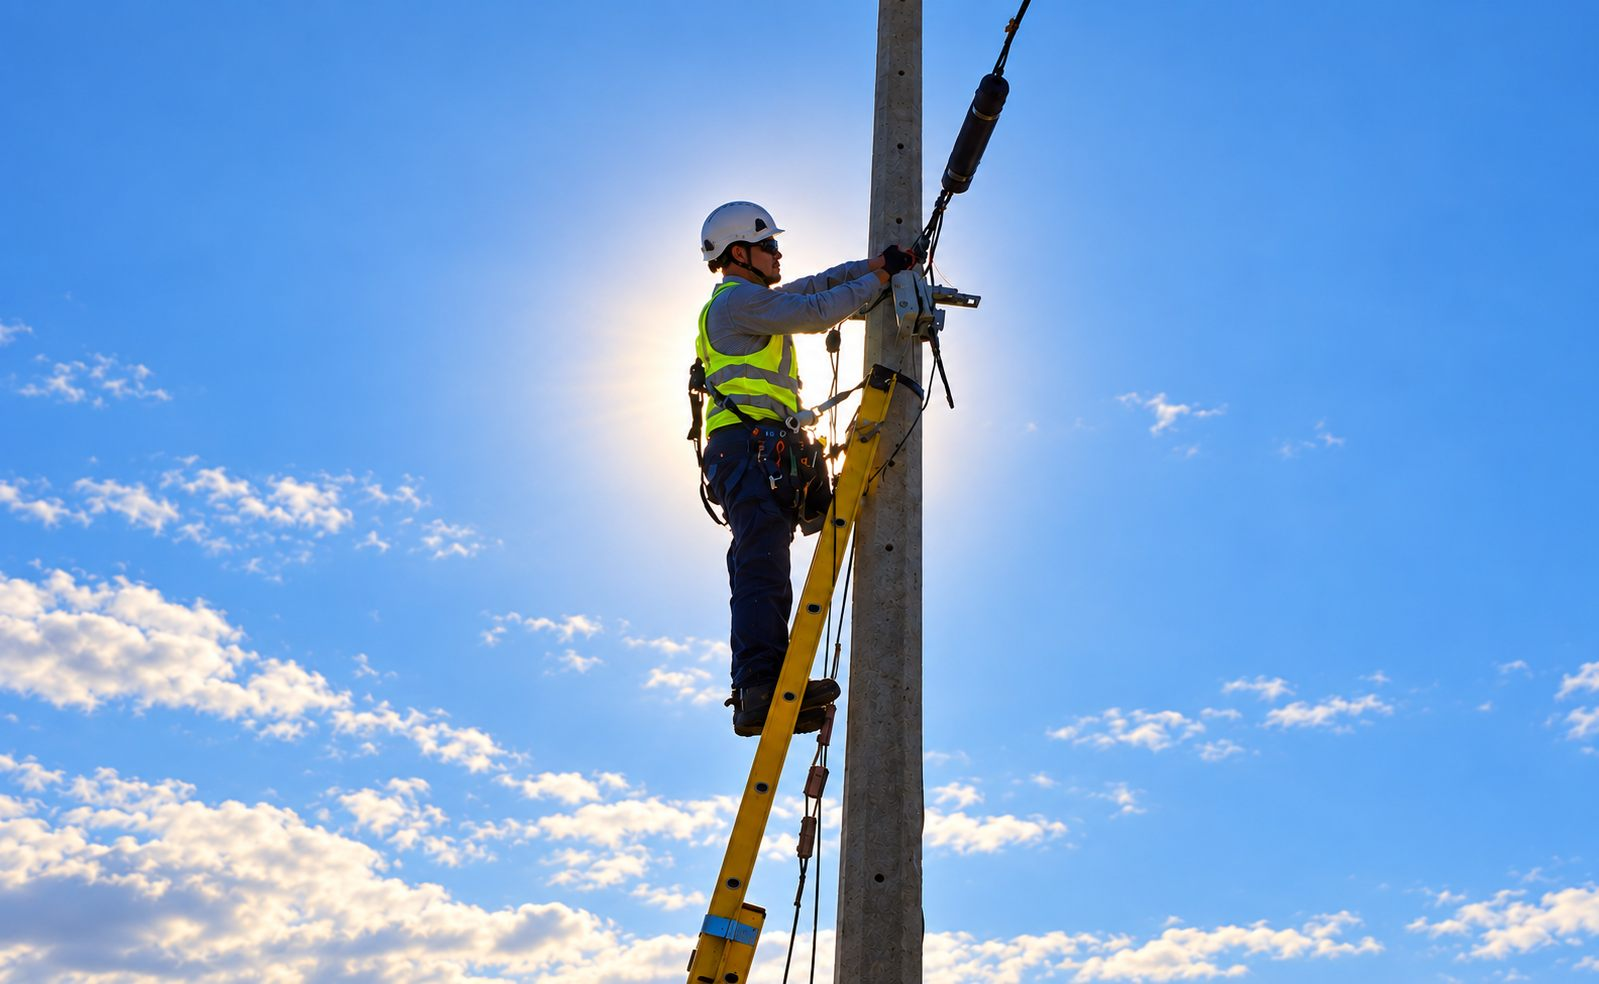
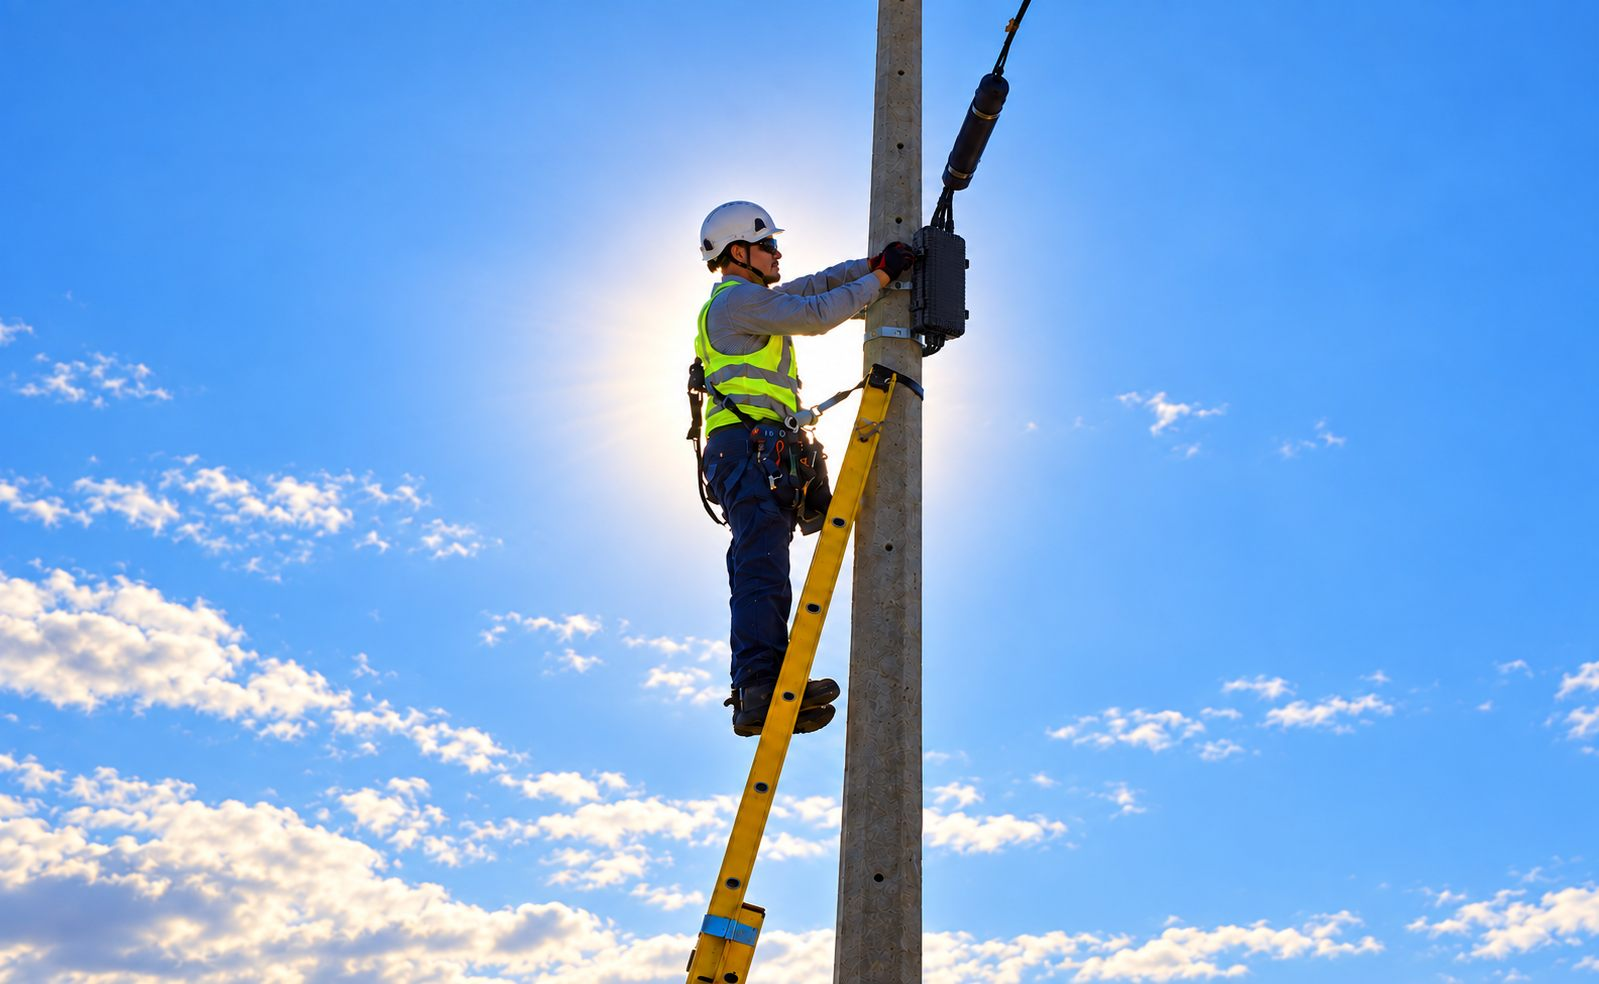
Actualiza foto de fondo de la portada

diff --git a/index.html b/index.html
@@ -53,7 +53,7 @@ nav.tabs button[aria-current="page"] { color: var(--navy); border-bottom-color: 
 
 /* ---- portada ---- */
 .hero { position: relative; overflow: hidden; color: #ffffff; background: radial-gradient(120% 140% at 85% 10%, #0c4b9a 0%, #003575 45%, #00224d 100%) }
-.hero .photo { position: absolute; top: 0; right: 0; bottom: 0; width: 64%; background: url("Imagenes/fondo-portada.jpg") 55% 22% / cover no-repeat }
+.hero .photo { position: absolute; top: 0; right: 0; bottom: 0; width: 64%; background: url("Imagenes/fondo-portada.jpg?v=2") 55% 22% / cover no-repeat }
 /* velo: navy sólido bajo el texto, se abre hacia la derecha para dejar ver al técnico */
 .hero .shade { position: absolute; inset: 0; pointer-events: none;
   background: linear-gradient(90deg, #00224d 0%, #003575 34%, rgba(0, 53, 117, .78) 44%, rgba(0, 53, 117, .2) 60%, rgba(0, 34, 77, 0) 76%),
